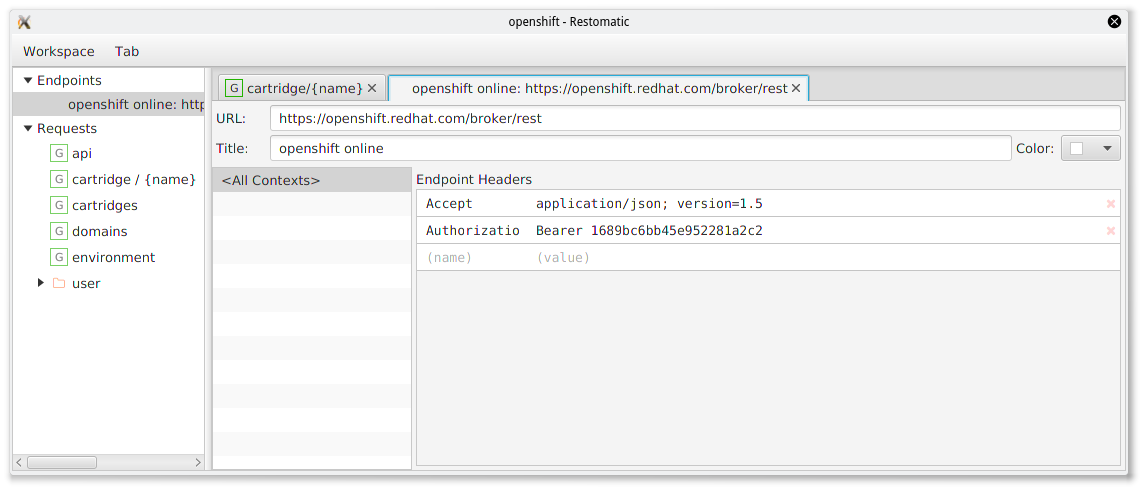
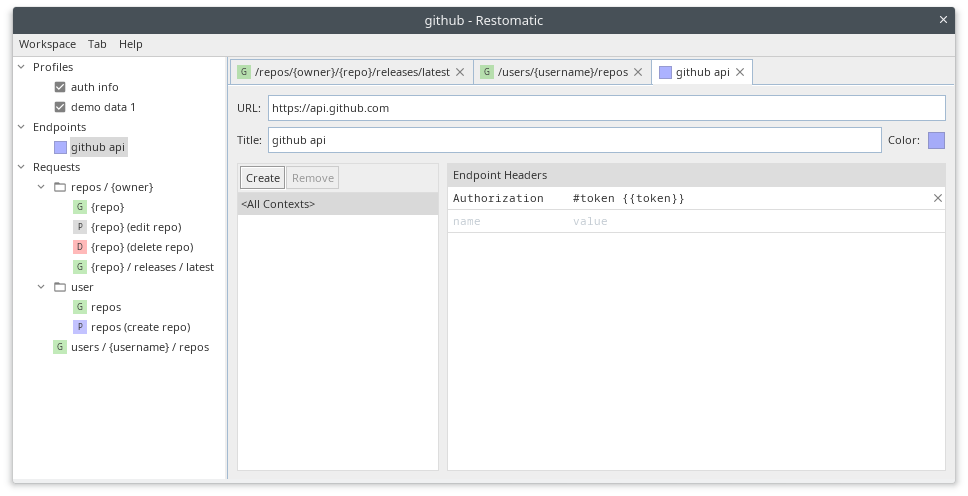
v15

diff --git a/index.html b/index.html
@@ -13,7 +13,7 @@
         <section class="page-header">
             <h1 class="project-name">Restomatic</h1>
             <h2 class="project-tagline">An easy to use GUI for RESTful services</h2>
-            <a href="https://github.com/bitlama/restomatic/releases/download/v14/restomatic.jar"
+            <a href="https://github.com/bitlama/restomatic/releases/download/v15/restomatic.jar"
                class="btn">Download executable JAR</a>
         </section>
 
@@ -24,10 +24,11 @@
             <ul>
                 <li>Define path and query parameters</li>
                 <li>Define request headers</li>
-                <li>Misc request body types</li>
-                <li>The request hierarchy is organized dynamically as you type request URL</li>
+                <li>Misc request body types: text, form, multipart, file</li>
+                <li>The request hierarchy is organized dynamically as you change the request path</li>
                 <li>Seamless search</li>
                 <li>Temporary request templates to experiment without touching the original template</li>
+                <li>View JSON response as tree</li>
             </ul>
 
             <h2>Endpoints</h2>
@@ -41,8 +42,8 @@
             <h2>Authenticators</h2>
             <ul>
                 <li>HTTP Basic authenticator</li>
-                <li>JASIG CAS form-based and RESTful authenticators</li>
                 <li>Custom scenario authenticator using JavaScript</li>
+                <li>JASIG CAS form-based and RESTful authenticators</li>
             </ul>
 
             <h2>Profiles</h2>
@@ -82,8 +83,8 @@
                     <div class="answer">
                         <p>
                             It would be great to build a better project info page to replace this generated one.
-                            Also feel free to <a href="https://github.com/bitlama/restomatic/issues/new">post an issue</a>
-                            if you've managed to find a bug or wish to offer a feature.
+                            Also feel free to <a href="https://github.com/bitlama/restomatic/issues/new">report</a>
+                            bugs or feature requests.
                         </p>
                     </div>
                 </li>
@@ -91,10 +92,10 @@
                     <div class="question">Is there an example workspace file?</div>
                     <div class="answer">
                         <p>
-                            Check <a href="demo/openshift">this one</a>. This example showcases a subset of
-                            <a href="https://www.openshift.com">Openshift</a> APIs.
-                            After opening the workspace file don't forget to change the value of the "Authorization" header
-                            inside the "openshift online" endpoint.
+                            Check <a href="demo/github">this one</a>. This example showcases a subset of
+                            <a href="https://developer.github.com/v3/">GitHub REST API</a>.
+                            After opening the workspace file change the value of "token" and "userId" parameters
+                            inside the "auth info" profile.
                         </p>
                     </div>
                 </li>
